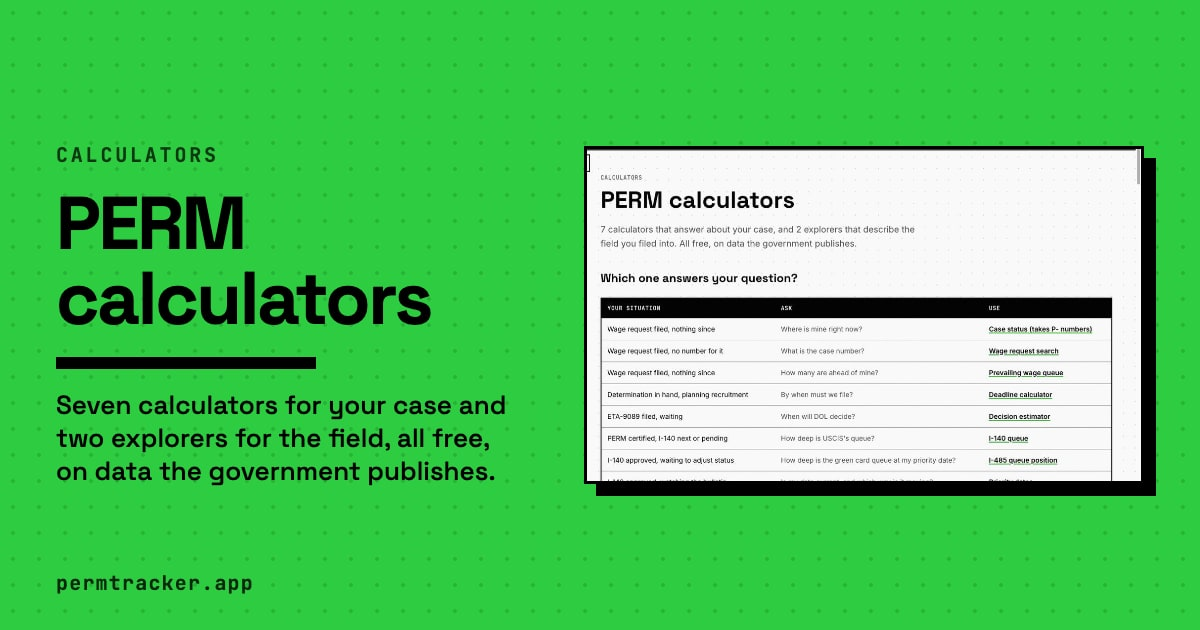
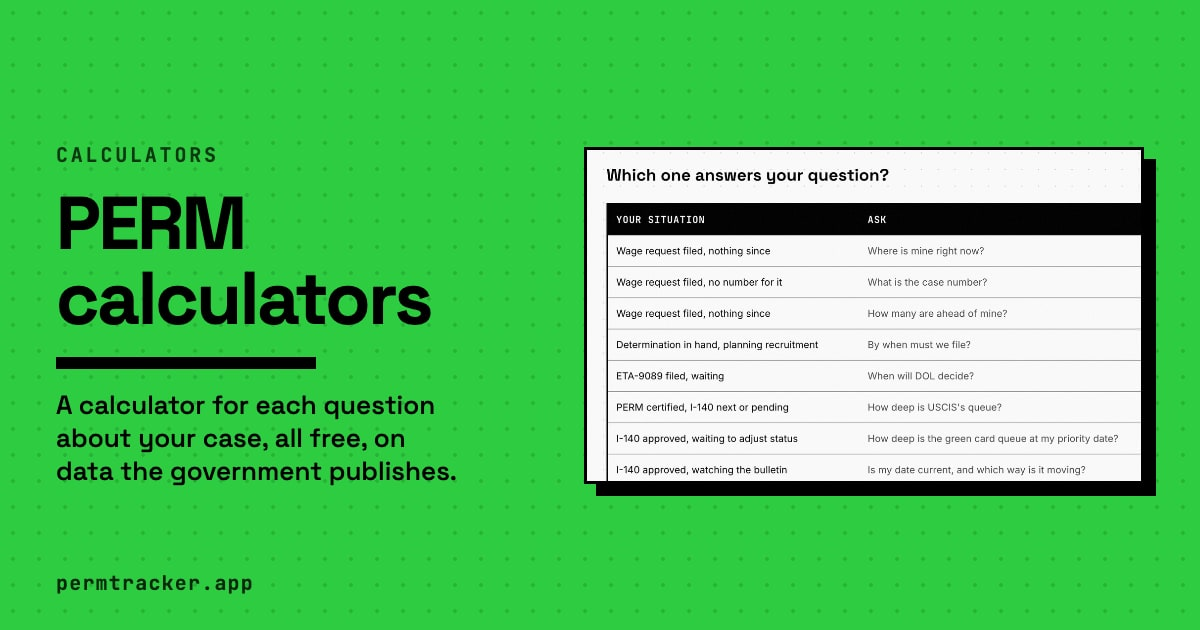
fix(tools, calculators card): count the calculators, redraw a stale card; record the night
- /tools said "Seven calculators"; it now counts TOOL_NAV_LINKS like the
  footer ("All 21 calculators").
- The calculators social card said "Seven calculators... two explorers" in its
  label and showed "7 calculators" in its screenshot. Redrawn from a fresh
  capture starting at the routing table, with a label that carries no count.
- Both CLAUDE.md files: Oct 11 2026 (early morning).

Claude-Session: https://claude.ai/code/session_01XYgdcpR3a27fwYMdTXZtsH

Changed region(s): [[0.4933, 0.2714, 0.9558, 0.754], [0.0308, 0.6333, 0.4317, 0.7841], [0.4933, 0.2111, 0.9558, 0.2413]]

diff --git a/v2/src/lib/pageCards.ts b/v2/src/lib/pageCards.ts
@@ -63,7 +63,7 @@ export const PAGE_CARD_ALT = {
   "about": "About PERM Tracker. A free, independent site on DOL's own data, run by an immigration attorney who files these cases.",
   "press": "Press and data for journalists. What DOL's records can tell a reporter, and how to credit PERM Tracker.",
   "blog": "PERM Tracker blog. What DOL's own files show about processing times, denials, wages and the queue.",
-  "calculators": "PERM calculators. Seven calculators for your case and two explorers for the field, all free, on data the government publishes.",
+  "calculators": "PERM calculators. A calculator for each question about your case, all free, on data the government publishes, beside the table that matches a situation to its calculator.",
   "case-search": "Search every DOL case an employer filed. PERM, prevailing wage and H-1B LCA, open and decided, in one search.",
   "changelog": "What changed. Every release, dated, with the data and features it added.",
   "contact": "Get in touch. Questions, bugs and ideas land in one inbox: support@permtracker.app or the form on the contact page.",

diff --git a/v2/src/app/(site)/(public)/tools/page.tsx b/v2/src/app/(site)/(public)/tools/page.tsx
@@ -8,6 +8,7 @@
  */
 
 import type { Metadata } from "next";
+import { TOOL_NAV_LINKS } from "@/lib/constants/navigation";
 import { withSocialCard } from "@/lib/socialCard";
 import Link from "next/link";
 import { ArrowRightIcon } from "@phosphor-icons/react/ssr";
@@ -187,7 +188,7 @@ export default async function ToolsPage() {
 
       <section className="mt-10 flex flex-wrap items-center justify-between gap-4 border-2 border-border bg-tint-primary p-6 shadow-hard sm:p-8">
         <div>
-          <h2 className="font-heading text-2xl font-black">Seven calculators</h2>{" "}
+          <h2 className="font-heading text-2xl font-black">All {TOOL_NAV_LINKS.length} calculators</h2>{" "}
           <p className="mt-1 max-w-xl text-base text-foreground/70">
             Decision times, the wage, I-140 and I-485 queues, priority dates,
             the green card drawn to scale, and every statutory deadline.
